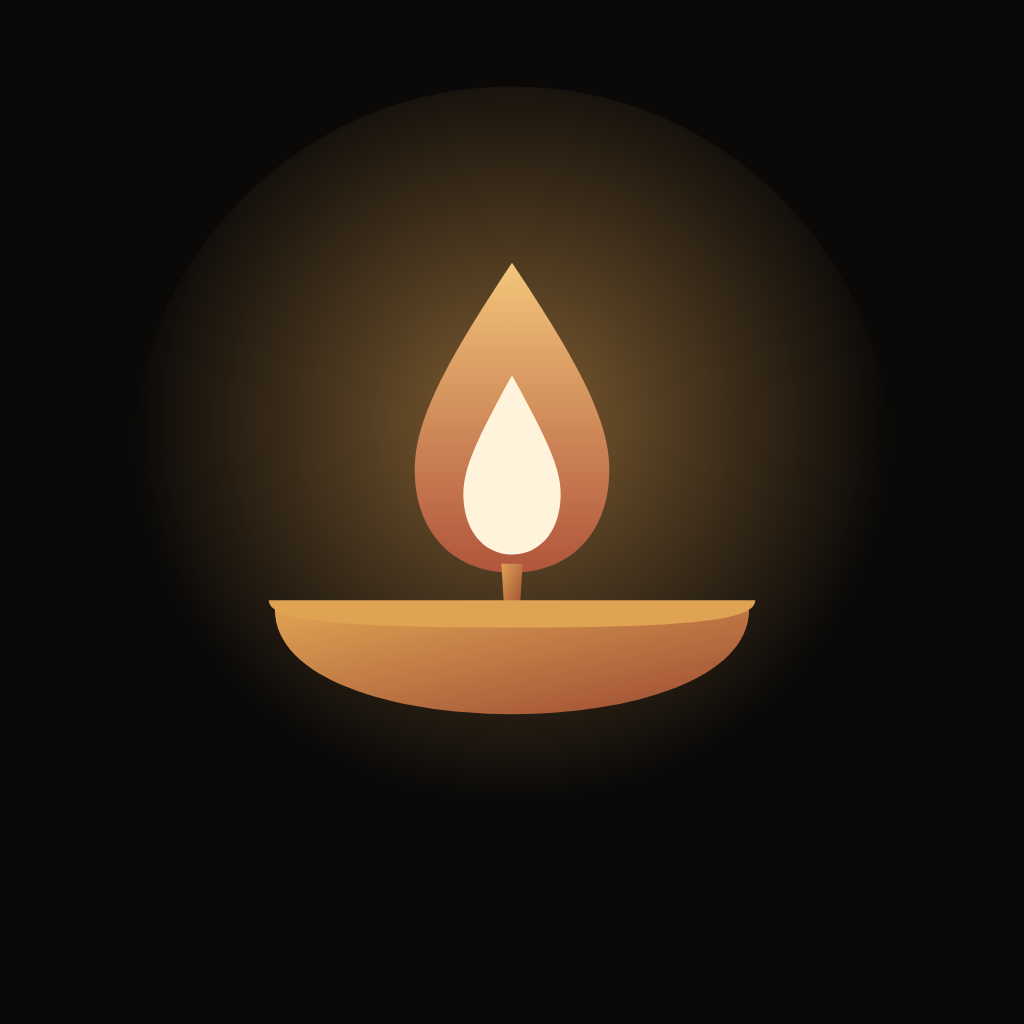
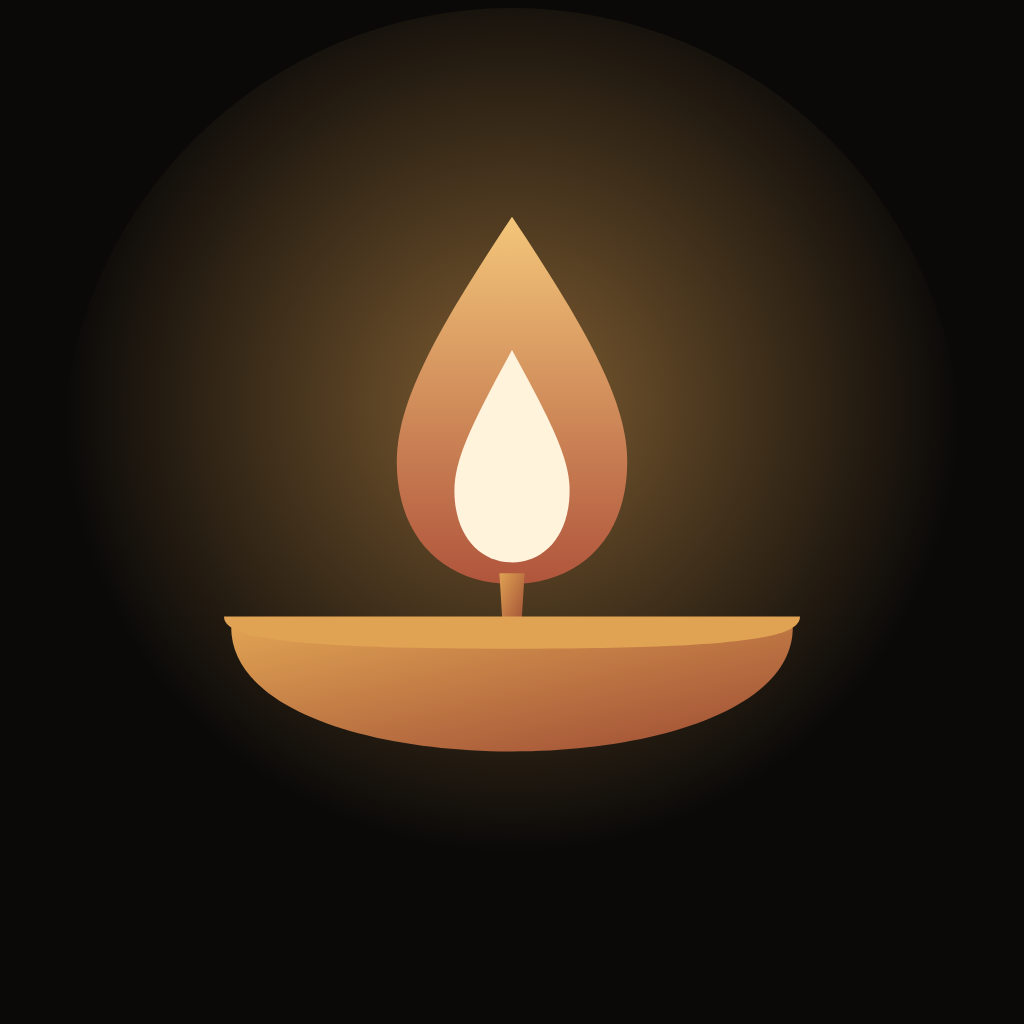
A bigger lamp in the launcher, and a glow behind it
The adaptive foreground was drawn at the safe-zone size and then
cropped again by the launcher, which left the mark at about 40% of the
tile — small enough to read as a dot on a home screen. It now fills
the layer, and the background layer carries the glow the legacy icon
already had, so the round and squircle masks both get it.

The two READMEs pick up what changed: the font in www/, the two native
plugins and why they exist, and where the workflow writes the things
that cannot live in a generated android/ folder.

Claude-Session: https://claude.ai/code/session_012UgVUBHH5yHvd9kCqNRV5R

diff --git a/www/README.md b/www/README.md
@@ -7,11 +7,32 @@ points `webDir` here, so these four files are what gets packaged.
     app.css      all styling and animation
     app.js       one IIFE: state, playback, and every interaction
     config.js    where the server is, and the key used to reach it
+    fonts/       Sora, four weights — the app fetches nothing to draw
     SYNC.md      what the server has to do for favourites to sync
 
-No build step and no dependencies. Edit, run `npx cap sync android`,
-rebuild. Opening `index.html` straight from disk works too, minus the
-Telegram bridge.
+No build step and no dependencies here. Edit, run `npx cap sync
+android`, rebuild. Opening `index.html` straight from disk works too,
+minus the Telegram bridge.
+
+## What only exists in the app
+
+Two things the browser gives us and the Android WebView does not, so
+they are reached through native plugins rather than written here:
+
+    MediaSession       the notification, the lock screen, and the
+                       capsule some phones draw — plus the foreground
+                       service that keeps audio alive in the
+                       background. app.js uses the standard Web API
+                       wherever there is one and the plugin where
+                       there is not; the rest of the file cannot tell.
+
+    LocalNotifications only for its permission prompt. Android 13
+                       hides every notification until it is granted,
+                       and nothing else here asks.
+
+Both are plain `window.Capacitor.Plugins` calls, so neither brings a
+build step with it. Declining the permission costs the notification
+and nothing else.
 
 These files were recovered from `app-debug.apk`, which was the only
 copy of them. The first commit is that recovered state, byte for

diff --git a/README.md b/README.md
@@ -31,5 +31,21 @@ be reached.
 ## Changing the app
 
 Everything visible lives in `www/`. Edit, push, run the workflow, get
-a new APK. The same three files also run as the Telegram Mini App from
-the bot's `webapp/` folder.
+a new APK. The same files also run as the Telegram Mini App from the
+bot's `webapp/` folder.
+
+The icon and the startup screen are drawn from `assets/` — the
+workflow turns `icon.png`, the adaptive pair and `splash.png` into
+every size Android wants.
+
+## The bits that are Android's, not the web's
+
+`android/` is generated on each run rather than kept here, so anything
+that has to be in the native project is written by the workflow:
+
+  - `scripts/android-permissions.py` adds the two permissions the
+    playing notification needs. Without them Android 14 refuses to
+    start the media service and Android 13 hides the notification.
+  - Plugins come from `package.json` and Capacitor wires them in.
+
+Nothing in `www/` needs a build step; these run before Gradle does.
